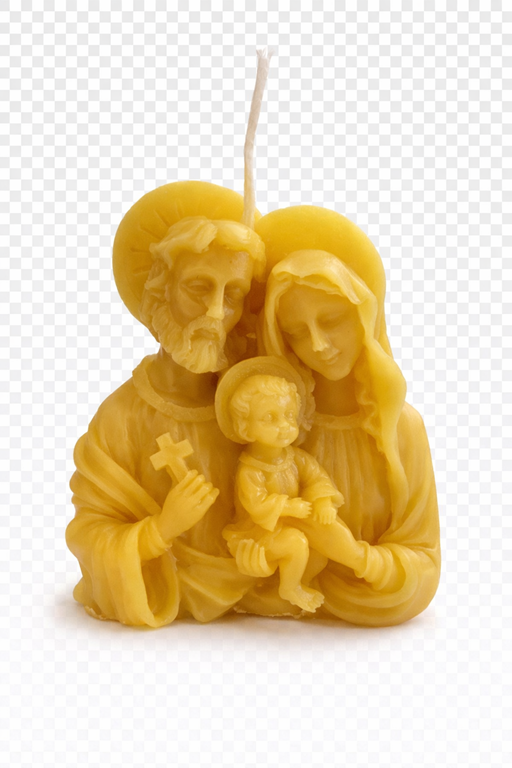
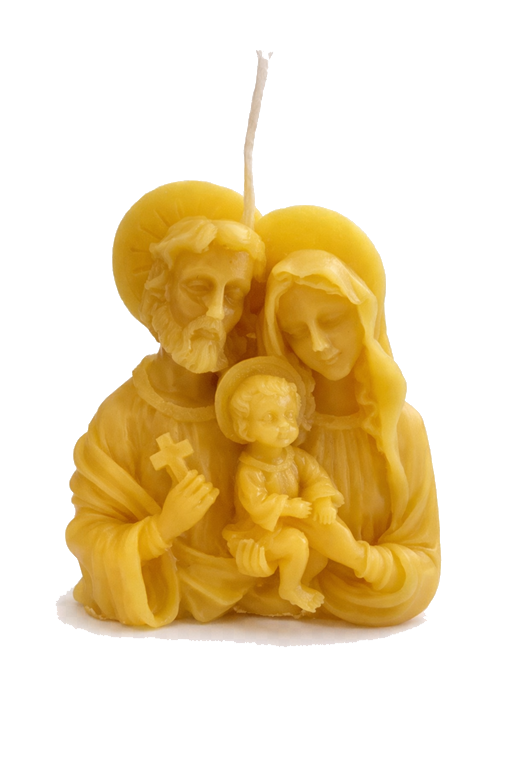
fix image

diff --git a/style.css b/style.css
@@ -1042,3 +1042,20 @@ footer a:hover {
   border-radius: 6px;
   object-fit: contain;
 }
+.product-card {
+  background: #fff;
+  padding: 20px;
+  border-radius: 10px;
+  box-shadow: 0 2px 6px rgba(0,0,0,0.1);
+}
+
+.product-card img {
+  background: #fff;
+  padding: 10px;
+  border-radius: 6px;
+  object-fit: contain;
+}
+body,
+.shop-grid {
+  background: #fff !important;
+}
